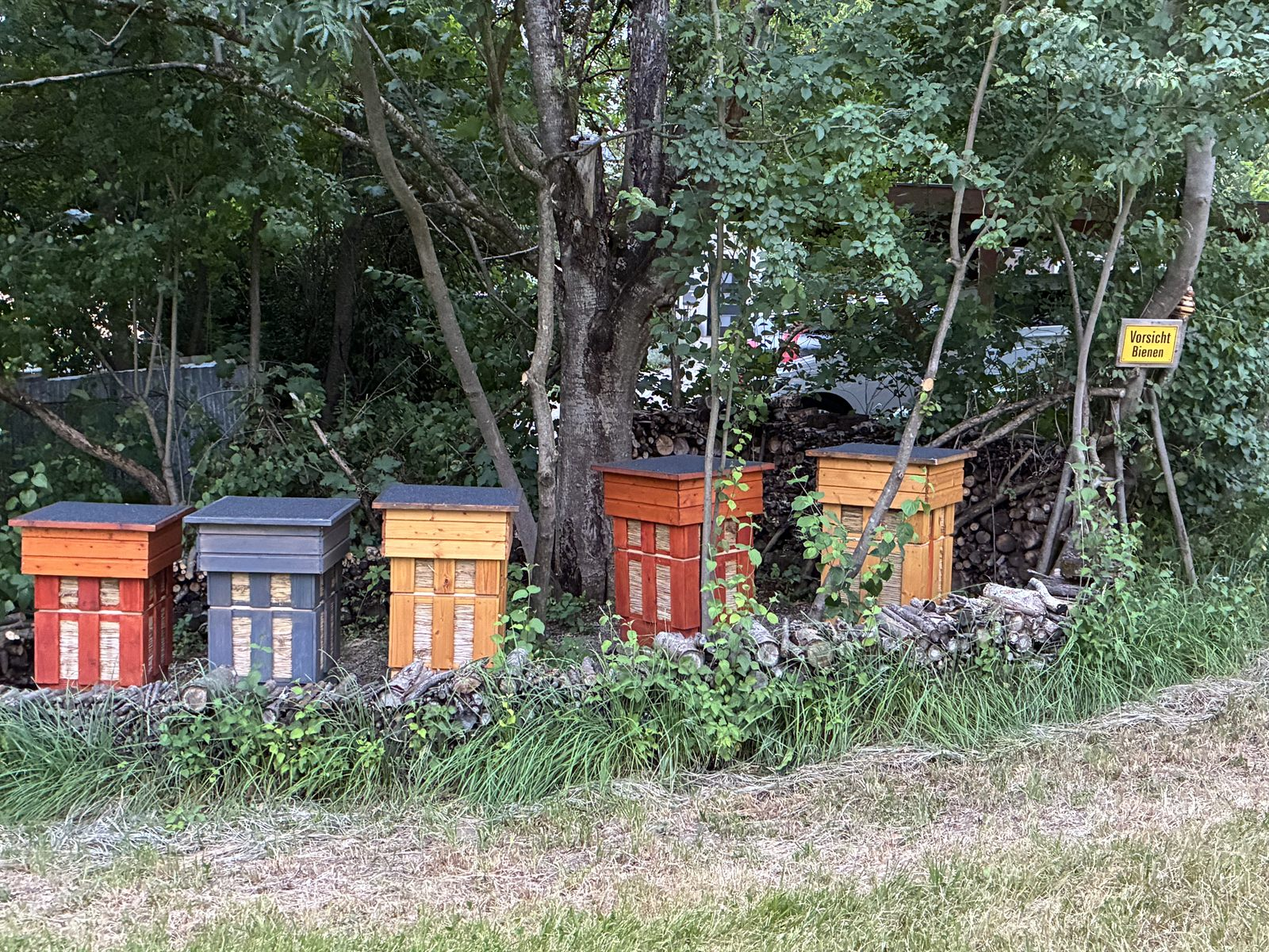
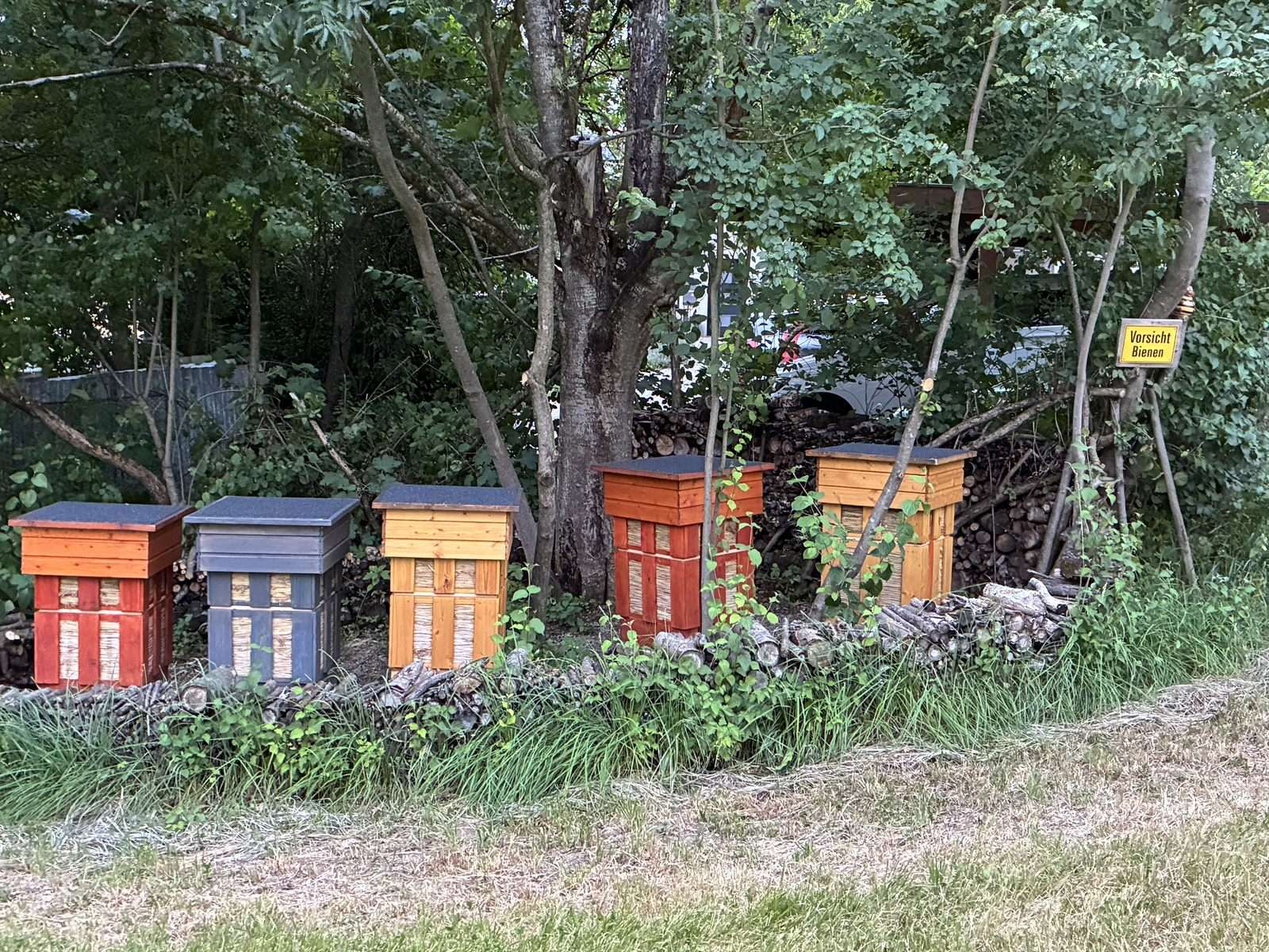
Feinschliff: Altersabfrage 16+ (Met), OG-Tags, 404-Seite, UX- & A11y-Fixes
- Altersabfrage vor Bezahlung bei 16+-Produkten (Met, Feld ab16)
- Startseiten-Highlights fuellen mit ausverkauften Produkten auf
- Betreiber-Hinweis aus Kunden-Fehlermeldung entfernt
- Menge ueberall auf 99 begrenzt (passend zur Cloud Function)
- Warenkorb leeren mit Rueckfrage; bestellung-ok leert nur mit ?sitzung=
- produkt.html: meta description (dynamisch aus produkt.kurz)
- Open-Graph-Tags auf 8 Seiten (Teilen-Vorschau, Bild: biene_blume)
- 404.html neu im Waben-Stil
- schild.jpeg & bienen_zuhause.jpeg komprimiert (-58%% / -39%%)
- Bewertungs-Sterne in fieldset/legend; Lightbox mit Fokus-Management
- ZU-ERLEDIGEN.txt auf aktuellen Stand gebracht

diff --git a/js/cart.js b/js/cart.js
@@ -28,18 +28,21 @@ function warenkorbSpeichern(warenkorb) {
   }
 }
 
+/* Höchstmenge pro Produkt — muss zur Grenze in functions/index.js passen */
+const MAX_MENGE = 99;
+
 /* Produkt hinzufügen (Standard: 1 Stück). Existiert es schon,
    wird die Menge erhöht. */
 function inWarenkorb(id, menge = 1) {
   const produkt = produktNachId(id);
   if (!produkt || !produkt.verfuegbar) return;
 
-  menge = Math.max(1, parseInt(menge, 10) || 1);
+  menge = Math.max(1, Math.min(MAX_MENGE, parseInt(menge, 10) || 1));
 
   const warenkorb = warenkorbLesen();
   const vorhanden = warenkorb.find(p => p.id === id);
   if (vorhanden) {
-    vorhanden.menge += menge;
+    vorhanden.menge = Math.min(MAX_MENGE, vorhanden.menge + menge);
   } else {
     warenkorb.push({ id: id, menge: menge });
   }
@@ -50,9 +53,9 @@ function inWarenkorb(id, menge = 1) {
   }
 }
 
-/* Menge eines Produkts direkt setzen (mind. 1) */
+/* Menge eines Produkts direkt setzen (1 bis MAX_MENGE) */
 function warenkorbSetzeMenge(id, menge) {
-  menge = Math.max(1, parseInt(menge, 10) || 1);
+  menge = Math.max(1, Math.min(MAX_MENGE, parseInt(menge, 10) || 1));
   const warenkorb = warenkorbLesen();
   const eintrag = warenkorb.find(p => p.id === id);
   if (eintrag) {
@@ -68,8 +71,9 @@ function ausWarenkorb(id) {
   if (typeof renderWarenkorb === "function") renderWarenkorb();
 }
 
-/* Kompletten Warenkorb leeren */
+/* Kompletten Warenkorb leeren (mit Rückfrage, schützt vor Fehlklick) */
 function warenkorbLeeren() {
+  if (!confirm("Möchtest du wirklich den ganzen Warenkorb leeren?")) return;
   warenkorbSpeichern([]);
   if (typeof renderWarenkorb === "function") renderWarenkorb();
 }
@@ -118,7 +122,7 @@ function renderWarenkorb() {
           <small>${preisFormat(produkt.preis)} / ${produkt.einheit}</small>
         </div>
         <div class="mengenwahl">
-          <input type="number" min="1" value="${eintrag.menge}"
+          <input type="number" min="1" max="${MAX_MENGE}" value="${eintrag.menge}"
                  aria-label="Menge für ${produkt.name}"
                  onchange="warenkorbSetzeMenge('${produkt.id}', this.value); renderWarenkorb();">
         </div>
@@ -190,6 +194,21 @@ async function zurKasse(knopf) {
   const warenkorb = warenkorbLesen();
   if (warenkorb.length === 0) return;
 
+  // Altersabfrage: enthält der Warenkorb ein 16+-Produkt (z. B. Met),
+  // muss der Kunde vor dem Bezahlen sein Alter bestätigen.
+  const ab16Produkte = warenkorb
+    .map(eintrag => produktNachId(eintrag.id))
+    .filter(p => p && p.ab16);
+  if (ab16Produkte.length > 0) {
+    const namen = ab16Produkte.map(p => "„" + p.name + "“").join(", ");
+    const bestaetigt = confirm(
+      "Dein Warenkorb enthält " + namen + " — Abgabe nur an Personen " +
+      "ab 16 Jahren.\n\nHiermit bestätige ich, dass ich mindestens " +
+      "16 Jahre alt bin."
+    );
+    if (!bestaetigt) return;
+  }
+
   // Doppelklick verhindern und Rückmeldung geben.
   if (knopf) {
     knopf.disabled = true;
@@ -211,9 +230,7 @@ async function zurKasse(knopf) {
     console.error(err);
     alert(
       "Die Bezahlung konnte gerade nicht gestartet werden.\n\n" +
-      "Bitte versuche es später noch einmal oder kontaktiere uns direkt.\n" +
-      "(Hinweis für den Betreiber: Ist die Funktion 'createCheckout' schon " +
-      "veröffentlicht? Siehe README, Etappe B.)"
+      "Bitte versuche es später noch einmal oder kontaktiere uns direkt."
     );
     if (knopf) {
       knopf.disabled = false;

diff --git a/galerie.html b/galerie.html
@@ -5,6 +5,15 @@
   <meta name="viewport" content="width=device-width, initial-scale=1.0">
   <title>Einblicke — BIO-Imkerei Moser</title>
   <meta name="description" content="Fotos von unseren Bienen und der Arbeit am Bienenstock — Einblicke in die BIO-Imkerei Moser.">
+  <!-- Vorschau beim Teilen des Links (WhatsApp, Facebook & Co.)
+       Beim Umstieg auf die eigene Domain: og:image-Adresse anpassen! -->
+  <meta property="og:type" content="website">
+  <meta property="og:site_name" content="BIO-Imkerei Moser">
+  <meta property="og:title" content="Einblicke — BIO-Imkerei Moser">
+  <meta property="og:description" content="Fotos von unseren Bienen und der Arbeit am Bienenstock — Einblicke in die BIO-Imkerei Moser.">
+  <meta property="og:image" content="https://noah804.github.io/BIO-Imkerei-Shop/assets/images/biene_blume.jpg">
+  <meta property="og:locale" content="de_AT">
+  <meta name="twitter:card" content="summary_large_image">
   <link rel="icon" href="assets/images/favicon.svg" type="image/svg+xml">
   <link rel="stylesheet" href="css/style.css">
 </head>
@@ -50,17 +59,23 @@
       const boxText = document.getElementById("lightboxText");
       const boxZu = document.getElementById("lightboxSchliessen");
 
+      let zuletztFokussiert = null; // für die Tastatur: Fokus nachher zurückgeben
+
       function oeffne(bild, titel) {
+        zuletztFokussiert = document.activeElement;
         boxBild.src = bild;
         boxBild.alt = titel || "Foto aus der Imkerei";
         boxText.textContent = titel || "";
         box.classList.add("offen");
         document.body.style.overflow = "hidden"; // Hintergrund nicht scrollen
+        boxZu.focus(); // Fokus in die Großansicht holen (Schließen-Knopf)
       }
       function schliesse() {
         box.classList.remove("offen");
         boxBild.src = "";
         document.body.style.overflow = "";
+        // Fokus dorthin zurückgeben, wo er vor dem Öffnen war
+        if (zuletztFokussiert && zuletztFokussiert.focus) zuletztFokussiert.focus();
       }
 
       // Klick auf ein Galerie-Bild öffnet die Großansicht
@@ -78,7 +93,10 @@
       });
       boxZu.addEventListener("click", schliesse);
       document.addEventListener("keydown", function (e) {
+        if (!box.classList.contains("offen")) return;
         if (e.key === "Escape") schliesse();
+        // Tab bleibt in der Großansicht (einziges Bedienelement: Schließen-Knopf)
+        if (e.key === "Tab") { e.preventDefault(); boxZu.focus(); }
       });
     })();
   </script>

diff --git a/produkt.html b/produkt.html
@@ -4,6 +4,16 @@
   <meta charset="UTF-8">
   <meta name="viewport" content="width=device-width, initial-scale=1.0">
   <title>Produkt — BIO-Imkerei Moser</title>
+  <meta name="description" content="Naturbelassener Honig und Bienenprodukte direkt von der BIO-Imkerei Moser in St. Johann im Pongau.">
+  <!-- Vorschau beim Teilen des Links (WhatsApp, Facebook & Co.)
+       Beim Umstieg auf die eigene Domain: og:image-Adresse anpassen! -->
+  <meta property="og:type" content="website">
+  <meta property="og:site_name" content="BIO-Imkerei Moser">
+  <meta property="og:title" content="Produkt — BIO-Imkerei Moser">
+  <meta property="og:description" content="Naturbelassener Honig und Bienenprodukte direkt von der BIO-Imkerei Moser in St. Johann im Pongau.">
+  <meta property="og:image" content="https://noah804.github.io/BIO-Imkerei-Shop/assets/images/biene_blume.jpg">
+  <meta property="og:locale" content="de_AT">
+  <meta name="twitter:card" content="summary_large_image">
   <link rel="icon" href="assets/images/favicon.svg" type="image/svg+xml">
   <link rel="stylesheet" href="css/style.css">
 </head>
@@ -48,8 +58,10 @@
         return;
       }
 
-      // Seitentitel im Browser-Tab setzen
+      // Seitentitel & Beschreibung im Browser-Tab setzen
       document.title = produkt.name + " — BIO-Imkerei Moser";
+      const beschreibungMeta = document.querySelector('meta[name="description"]');
+      if (beschreibungMeta) beschreibungMeta.setAttribute("content", produkt.kurz);
 
       const bild = produktBild(produkt);
       const ausverkauft = !produkt.verfuegbar;
@@ -59,12 +71,13 @@
            <button class="btn btn--gross" disabled>Ausverkauft</button>`
         : `<div class="mengenwahl">
              <label for="menge">Menge:</label>
-             <input type="number" id="menge" value="1" min="1">
+             <input type="number" id="menge" value="1" min="1" max="99">
            </div>
            <button class="btn btn--gruen btn--gross"
                    onclick="inWarenkorb('${produkt.id}', document.getElementById('menge').value)">
              In den Warenkorb
-           </button>`;
+           </button>
+           ${produkt.ab16 ? `<p class="grundpreis">Abgabe nur an Personen ab 16 Jahren.</p>` : ""}`;
 
       ziel.innerHTML = `
         <div class="produkt-detail">

diff --git a/bewertungen.html b/bewertungen.html
@@ -5,6 +5,15 @@
   <meta name="viewport" content="width=device-width, initial-scale=1.0">
   <title>Bewertungen — BIO-Imkerei Moser</title>
   <meta name="description" content="Kundenbewertungen der BIO-Imkerei Moser — lies, was andere sagen, und schreib deine eigene Bewertung.">
+  <!-- Vorschau beim Teilen des Links (WhatsApp, Facebook & Co.)
+       Beim Umstieg auf die eigene Domain: og:image-Adresse anpassen! -->
+  <meta property="og:type" content="website">
+  <meta property="og:site_name" content="BIO-Imkerei Moser">
+  <meta property="og:title" content="Bewertungen — BIO-Imkerei Moser">
+  <meta property="og:description" content="Kundenbewertungen der BIO-Imkerei Moser — lies, was andere sagen, und schreib deine eigene Bewertung.">
+  <meta property="og:image" content="https://noah804.github.io/BIO-Imkerei-Shop/assets/images/biene_blume.jpg">
+  <meta property="og:locale" content="de_AT">
+  <meta name="twitter:card" content="summary_large_image">
   <link rel="icon" href="assets/images/favicon.svg" type="image/svg+xml">
   <link rel="stylesheet" href="css/style.css">
 </head>
@@ -28,8 +37,8 @@
         <input type="text" id="name" name="name" maxlength="60" required>
       </div>
 
-      <div>
-        <label>Deine Bewertung</label>
+      <fieldset>
+        <legend>Deine Bewertung</legend>
         <div class="sterne-wahl">
           <!-- umgekehrte Reihenfolge (5..1) für die Hover-Optik -->
           <input type="radio" id="s5" name="sterne" value="5"><label for="s5" title="5 Sterne">★</label>
@@ -38,7 +47,7 @@
           <input type="radio" id="s2" name="sterne" value="2"><label for="s2" title="2 Sterne">★</label>
           <input type="radio" id="s1" name="sterne" value="1"><label for="s1" title="1 Stern">★</label>
         </div>
-      </div>
+      </fieldset>
 
       <div>
         <label for="text">Dein Kommentar</label>

diff --git a/index.html b/index.html
@@ -5,6 +5,15 @@
   <meta name="viewport" content="width=device-width, initial-scale=1.0">
   <title>BIO-Imkerei Moser — Honig direkt vom Imker</title>
   <meta name="description" content="Honig und Bienenprodukte direkt von der BIO-Imkerei Moser. Naturbelassen, regional, mit Liebe gemacht.">
+  <!-- Vorschau beim Teilen des Links (WhatsApp, Facebook & Co.)
+       Beim Umstieg auf die eigene Domain: og:image-Adresse anpassen! -->
+  <meta property="og:type" content="website">
+  <meta property="og:site_name" content="BIO-Imkerei Moser">
+  <meta property="og:title" content="BIO-Imkerei Moser — Honig direkt vom Imker">
+  <meta property="og:description" content="Honig und Bienenprodukte direkt von der BIO-Imkerei Moser. Naturbelassen, regional, mit Liebe gemacht.">
+  <meta property="og:image" content="https://noah804.github.io/BIO-Imkerei-Shop/assets/images/biene_blume.jpg">
+  <meta property="og:locale" content="de_AT">
+  <meta name="twitter:card" content="summary_large_image">
   <link rel="icon" href="assets/images/favicon.svg" type="image/svg+xml">
   <link rel="stylesheet" href="css/style.css">
 </head>
@@ -146,11 +155,16 @@
   <script src="js/main.js"></script>
   <script src="js/cart.js"></script>
   <script>
-    // Bis zu 4 verfügbare Produkte als Highlights anzeigen
+    // Bis zu 4 Produkte als Highlights anzeigen:
+    // verfügbare zuerst, danach mit ausverkauften auffüllen,
+    // damit die Sektion nie halb leer wirkt.
     (function () {
       const ziel = document.getElementById("highlights");
       if (!ziel) return;
-      const auswahl = PRODUKTE.filter(p => p.verfuegbar).slice(0, 4);
+      const auswahl = [
+        ...PRODUKTE.filter(p => p.verfuegbar),
+        ...PRODUKTE.filter(p => !p.verfuegbar),
+      ].slice(0, 4);
       ziel.innerHTML = auswahl.map(renderProduktKarte).join("");
     })();
   </script>

diff --git a/404.html b/404.html
@@ -1,0 +1,39 @@
+<!DOCTYPE html>
+<html lang="de">
+<head>
+  <meta charset="UTF-8">
+  <meta name="viewport" content="width=device-width, initial-scale=1.0">
+  <title>Seite nicht gefunden — BIO-Imkerei Moser</title>
+  <meta name="description" content="Diese Seite gibt es leider nicht — zurück zur BIO-Imkerei Moser.">
+  <meta name="robots" content="noindex">
+  <link rel="icon" href="assets/images/favicon.svg" type="image/svg+xml">
+  <link rel="stylesheet" href="css/style.css">
+</head>
+<body>
+
+  <!-- Kopfzeile wird von js/main.js eingefügt -->
+
+  <main class="container abstand-oben">
+    <div class="warenkorb-leer">
+      <svg width="72" height="80" viewBox="0 0 72 80" aria-hidden="true" style="display:block;margin:0 auto 1rem">
+        <polygon points="18,3 54,3 70,40 54,77 18,77 2,40" fill="#fbe9c4" stroke="#e0930a" stroke-width="3"/>
+        <text x="36" y="49" text-anchor="middle" font-family="Georgia, serif" font-size="22" font-weight="bold" fill="#b9770a">?</text>
+      </svg>
+      <h1>Seite nicht gefunden</h1>
+      <p>
+        Diese Seite gibt es leider nicht (mehr) — vielleicht hat sich ein
+        Tippfehler in die Adresse geschlichen. Unser Honig ist aber ganz
+        sicher noch da:
+      </p>
+      <p style="margin-top:1.5rem">
+        <a class="btn btn--gross" href="index.html">Zur Startseite</a>
+        <a class="btn btn--umriss" href="produkte.html">Zu den Produkten</a>
+      </p>
+    </div>
+  </main>
+
+  <!-- Fußzeile wird von js/main.js eingefügt -->
+
+  <script src="js/main.js"></script>
+</body>
+</html>

diff --git a/abholung.html b/abholung.html
@@ -5,6 +5,15 @@
   <meta name="viewport" content="width=device-width, initial-scale=1.0">
   <title>Abholung &amp; Standort — BIO-Imkerei Moser</title>
   <meta name="description" content="Honig persönlich abholen — Standort der BIO-Imkerei Moser in St. Johann im Pongau.">
+  <!-- Vorschau beim Teilen des Links (WhatsApp, Facebook & Co.)
+       Beim Umstieg auf die eigene Domain: og:image-Adresse anpassen! -->
+  <meta property="og:type" content="website">
+  <meta property="og:site_name" content="BIO-Imkerei Moser">
+  <meta property="og:title" content="Abholung &amp; Standort — BIO-Imkerei Moser">
+  <meta property="og:description" content="Honig persönlich abholen — Standort der BIO-Imkerei Moser in St. Johann im Pongau.">
+  <meta property="og:image" content="https://noah804.github.io/BIO-Imkerei-Shop/assets/images/biene_blume.jpg">
+  <meta property="og:locale" content="de_AT">
+  <meta name="twitter:card" content="summary_large_image">
   <link rel="icon" href="assets/images/favicon.svg" type="image/svg+xml">
   <link rel="stylesheet" href="css/style.css">
 </head>

diff --git a/ueber-uns.html b/ueber-uns.html
@@ -5,6 +5,15 @@
   <meta name="viewport" content="width=device-width, initial-scale=1.0">
   <title>Über uns — BIO-Imkerei Moser</title>
   <meta name="description" content="Die Geschichte der BIO-Imkerei Moser — Menschen, Bienen und Leidenschaft für guten Honig.">
+  <!-- Vorschau beim Teilen des Links (WhatsApp, Facebook & Co.)
+       Beim Umstieg auf die eigene Domain: og:image-Adresse anpassen! -->
+  <meta property="og:type" content="website">
+  <meta property="og:site_name" content="BIO-Imkerei Moser">
+  <meta property="og:title" content="Über uns — BIO-Imkerei Moser">
+  <meta property="og:description" content="Die Geschichte der BIO-Imkerei Moser — Menschen, Bienen und Leidenschaft für guten Honig.">
+  <meta property="og:image" content="https://noah804.github.io/BIO-Imkerei-Shop/assets/images/biene_blume.jpg">
+  <meta property="og:locale" content="de_AT">
+  <meta name="twitter:card" content="summary_large_image">
   <link rel="icon" href="assets/images/favicon.svg" type="image/svg+xml">
   <link rel="stylesheet" href="css/style.css">
 </head>

diff --git a/kontakt.html b/kontakt.html
@@ -5,6 +5,15 @@
   <meta name="viewport" content="width=device-width, initial-scale=1.0">
   <title>Kontakt — BIO-Imkerei Moser</title>
   <meta name="description" content="Kontaktiere die BIO-Imkerei Moser — wir freuen uns über deine Nachricht.">
+  <!-- Vorschau beim Teilen des Links (WhatsApp, Facebook & Co.)
+       Beim Umstieg auf die eigene Domain: og:image-Adresse anpassen! -->
+  <meta property="og:type" content="website">
+  <meta property="og:site_name" content="BIO-Imkerei Moser">
+  <meta property="og:title" content="Kontakt — BIO-Imkerei Moser">
+  <meta property="og:description" content="Kontaktiere die BIO-Imkerei Moser — wir freuen uns über deine Nachricht.">
+  <meta property="og:image" content="https://noah804.github.io/BIO-Imkerei-Shop/assets/images/biene_blume.jpg">
+  <meta property="og:locale" content="de_AT">
+  <meta name="twitter:card" content="summary_large_image">
   <link rel="icon" href="assets/images/favicon.svg" type="image/svg+xml">
   <link rel="stylesheet" href="css/style.css">
 </head>

diff --git a/produkte.html b/produkte.html
@@ -5,6 +5,15 @@
   <meta name="viewport" content="width=device-width, initial-scale=1.0">
   <title>Produkte — BIO-Imkerei Moser</title>
   <meta name="description" content="Alle Honige und Bienenprodukte der BIO-Imkerei Moser im Überblick.">
+  <!-- Vorschau beim Teilen des Links (WhatsApp, Facebook & Co.)
+       Beim Umstieg auf die eigene Domain: og:image-Adresse anpassen! -->
+  <meta property="og:type" content="website">
+  <meta property="og:site_name" content="BIO-Imkerei Moser">
+  <meta property="og:title" content="Produkte — BIO-Imkerei Moser">
+  <meta property="og:description" content="Alle Honige und Bienenprodukte der BIO-Imkerei Moser im Überblick.">
+  <meta property="og:image" content="https://noah804.github.io/BIO-Imkerei-Shop/assets/images/biene_blume.jpg">
+  <meta property="og:locale" content="de_AT">
+  <meta name="twitter:card" content="summary_large_image">
   <link rel="icon" href="assets/images/favicon.svg" type="image/svg+xml">
   <link rel="stylesheet" href="css/style.css">
 </head>

diff --git a/js/products.js b/js/products.js
@@ -19,6 +19,9 @@
      bild        Pfad zum Bild, z. B. "assets/images/bluetenhonig.jpg"
                  (fehlt das Bild, wird automatisch der Platzhalter gezeigt)
      verfuegbar  true = kaufbar, false = "ausverkauft"
+     ab16        (optional) true = Verkauf erst ab 16 Jahren (z. B. Met —
+                 vergorene Getränke sind in Österreich ab 16 erlaubt);
+                 vor dem Bezahlen erscheint dann eine Altersabfrage
      bezahllink  (optional) Stripe/PayPal-Link — kommt später in Schritt 9
    ============================================================ */
 
@@ -109,9 +112,10 @@ const PRODUKTE = [
     beschreibung:
       "Unser Met wird aus unserem eigenen Honig angesetzt — ein traditioneller " +
       "Honigwein, goldgelb und angenehm süß. Enthält Alkohol; Abgabe nur an " +
-      "Personen ab 18 Jahren.",
+      "Personen ab 16 Jahren.",
     bild: "assets/images/platzhalter.svg",
     verfuegbar: false,
+    ab16: true,
   },
 ];
 

diff --git a/bestellung-ok.html b/bestellung-ok.html
@@ -39,8 +39,11 @@
   <script src="js/main.js"></script>
   <script src="js/cart.js"></script>
   <script>
-    // Bestellung erfolgreich -> Warenkorb leeren.
-    if (typeof warenkorbSpeichern === "function") {
+    // Warenkorb nur leeren, wenn die Seite wirklich nach einer Bezahlung
+    // aufgerufen wurde (Stripe hängt dann ?sitzung=... an die Adresse).
+    // So verliert niemand seinen Warenkorb, der die Seite zufällig öffnet.
+    const sitzung = new URLSearchParams(window.location.search).get("sitzung");
+    if (sitzung && typeof warenkorbSpeichern === "function") {
       warenkorbSpeichern([]);
     }
   </script>
